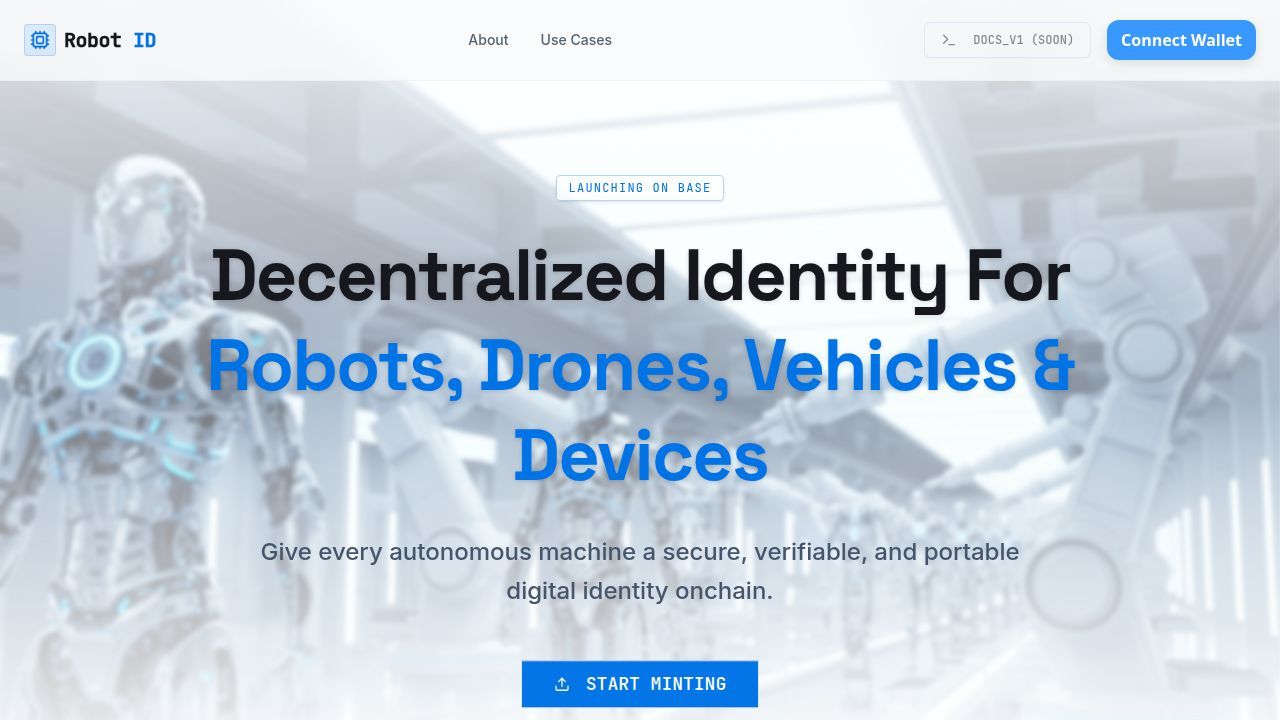
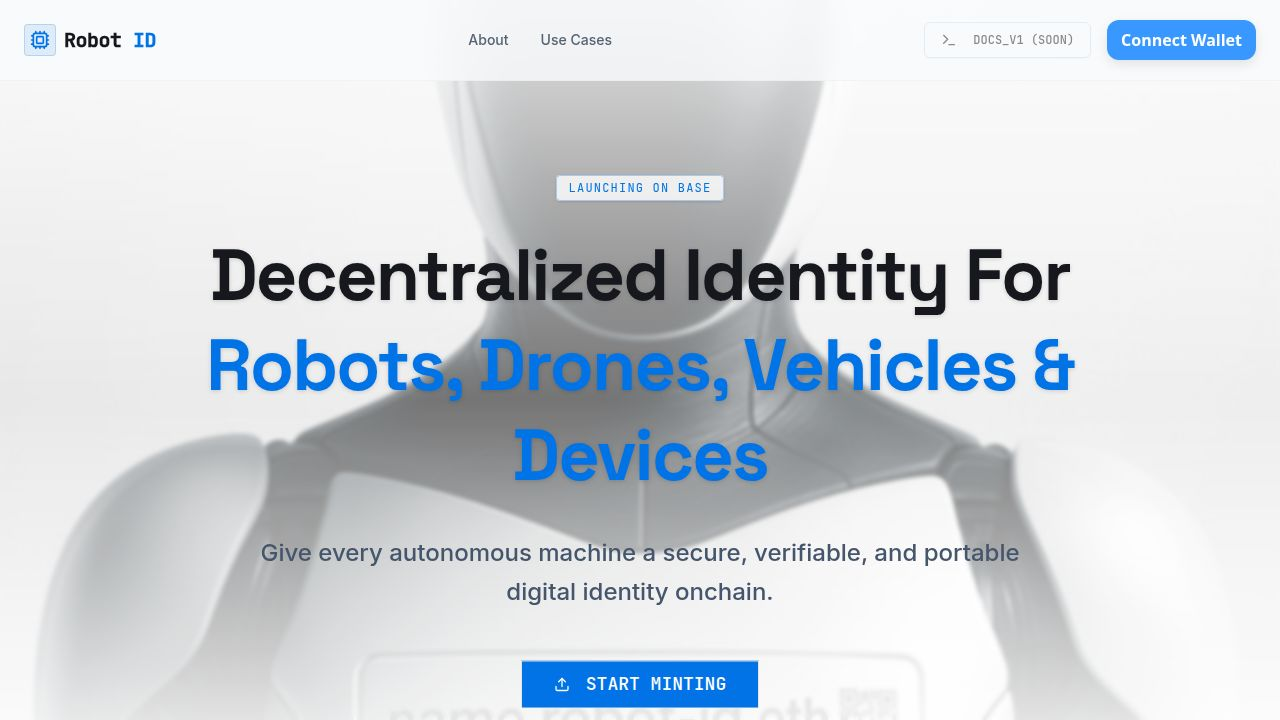
Update hero section with new robot image
Replace the existing hero image with a new, high-quality robot image to align with branding.

Replit-Commit-Author: Agent
Replit-Commit-Session-Id: 85a674c6-3517-4780-aa80-2c445b0ae4fa
Replit-Commit-Checkpoint-Type: full_checkpoint
Replit-Commit-Event-Id: d67d6192-fdf5-4afb-90d9-8cc3fa4cedcf
Replit-Commit-Screenshot-Url: https://storage.googleapis.com/screenshot-production-us-central1/c4c9e3a7-0379-40d7-9a9a-784080d9a74f/85a674c6-3517-4780-aa80-2c445b0ae4fa/SAo6IAO
Replit-Helium-Checkpoint-Created: true

diff --git a/client/src/pages/Home.tsx b/client/src/pages/Home.tsx
@@ -21,7 +21,7 @@ import {
   CheckCircle,
   FileSpreadsheet
 } from "lucide-react";
-import heroImage from "@assets/generated_images/pristine_high-tech_robot_factory_assembly_line_with_bright_lighting.png";
+import heroImage from "@assets/B55F00D4-FA9C-4B8B-B8D8-B59433051F95_1765296692722.PNG";
 import robotLineupImage from "@assets/robots_lineup.png";
 import { Button } from "@/components/ui/button";
 import { Card, CardContent, CardHeader, CardTitle } from "@/components/ui/card";
